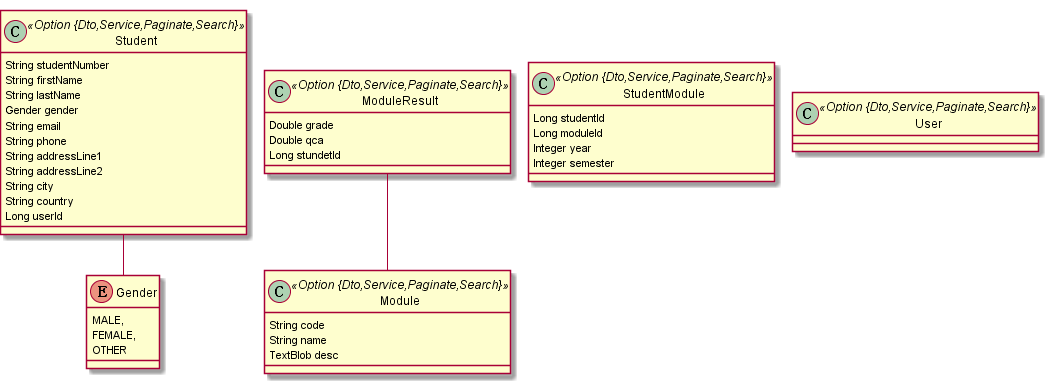
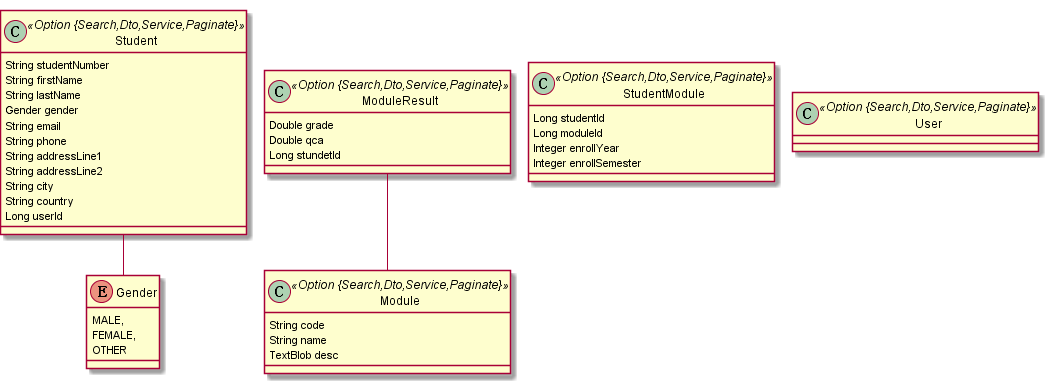
Initial application generated by JHipster-5.8.1

diff --git a/svcUnivCourseModule/src/test/java/cc/orangejuice/srs/univ/course/module/web/rest/StudentModuleResourceIntTest.java b/svcUnivCourseModule/src/test/java/cc/orangejuice/srs/univ/course/module/web/rest/StudentModuleResourceIntTest.java
@@ -57,11 +57,11 @@ public class StudentModuleResourceIntTest {
     private static final Long DEFAULT_MODULE_ID = 1L;
     private static final Long UPDATED_MODULE_ID = 2L;
 
-    private static final Integer DEFAULT_YEAR = 1;
-    private static final Integer UPDATED_YEAR = 2;
+    private static final Integer DEFAULT_ENROLL_YEAR = 1;
+    private static final Integer UPDATED_ENROLL_YEAR = 2;
 
-    private static final Integer DEFAULT_SEMESTER = 1;
-    private static final Integer UPDATED_SEMESTER = 2;
+    private static final Integer DEFAULT_ENROLL_SEMESTER = 1;
+    private static final Integer UPDATED_ENROLL_SEMESTER = 2;
 
     @Autowired
     private StudentModuleRepository studentModuleRepository;
@@ -121,8 +121,8 @@ public class StudentModuleResourceIntTest {
         StudentModule studentModule = new StudentModule()
             .studentId(DEFAULT_STUDENT_ID)
             .moduleId(DEFAULT_MODULE_ID)
-            .year(DEFAULT_YEAR)
-            .semester(DEFAULT_SEMESTER);
+            .enrollYear(DEFAULT_ENROLL_YEAR)
+            .enrollSemester(DEFAULT_ENROLL_SEMESTER);
         return studentModule;
     }
 
@@ -149,8 +149,8 @@ public class StudentModuleResourceIntTest {
         StudentModule testStudentModule = studentModuleList.get(studentModuleList.size() - 1);
         assertThat(testStudentModule.getStudentId()).isEqualTo(DEFAULT_STUDENT_ID);
         assertThat(testStudentModule.getModuleId()).isEqualTo(DEFAULT_MODULE_ID);
-        assertThat(testStudentModule.getYear()).isEqualTo(DEFAULT_YEAR);
-        assertThat(testStudentModule.getSemester()).isEqualTo(DEFAULT_SEMESTER);
+        assertThat(testStudentModule.getEnrollYear()).isEqualTo(DEFAULT_ENROLL_YEAR);
+        assertThat(testStudentModule.getEnrollSemester()).isEqualTo(DEFAULT_ENROLL_SEMESTER);
 
         // Validate the StudentModule in Elasticsearch
         verify(mockStudentModuleSearchRepository, times(1)).save(testStudentModule);
@@ -219,10 +219,10 @@ public class StudentModuleResourceIntTest {
 
     @Test
     @Transactional
-    public void checkYearIsRequired() throws Exception {
+    public void checkEnrollYearIsRequired() throws Exception {
         int databaseSizeBeforeTest = studentModuleRepository.findAll().size();
         // set the field null
-        studentModule.setYear(null);
+        studentModule.setEnrollYear(null);
 
         // Create the StudentModule, which fails.
         StudentModuleDTO studentModuleDTO = studentModuleMapper.toDto(studentModule);
@@ -238,10 +238,10 @@ public class StudentModuleResourceIntTest {
 
     @Test
     @Transactional
-    public void checkSemesterIsRequired() throws Exception {
+    public void checkEnrollSemesterIsRequired() throws Exception {
         int databaseSizeBeforeTest = studentModuleRepository.findAll().size();
         // set the field null
-        studentModule.setSemester(null);
+        studentModule.setEnrollSemester(null);
 
         // Create the StudentModule, which fails.
         StudentModuleDTO studentModuleDTO = studentModuleMapper.toDto(studentModule);
@@ -268,8 +268,8 @@ public class StudentModuleResourceIntTest {
             .andExpect(jsonPath("$.[*].id").value(hasItem(studentModule.getId().intValue())))
             .andExpect(jsonPath("$.[*].studentId").value(hasItem(DEFAULT_STUDENT_ID.intValue())))
             .andExpect(jsonPath("$.[*].moduleId").value(hasItem(DEFAULT_MODULE_ID.intValue())))
-            .andExpect(jsonPath("$.[*].year").value(hasItem(DEFAULT_YEAR)))
-            .andExpect(jsonPath("$.[*].semester").value(hasItem(DEFAULT_SEMESTER)));
+            .andExpect(jsonPath("$.[*].enrollYear").value(hasItem(DEFAULT_ENROLL_YEAR)))
+            .andExpect(jsonPath("$.[*].enrollSemester").value(hasItem(DEFAULT_ENROLL_SEMESTER)));
     }
     
     @Test
@@ -285,8 +285,8 @@ public class StudentModuleResourceIntTest {
             .andExpect(jsonPath("$.id").value(studentModule.getId().intValue()))
             .andExpect(jsonPath("$.studentId").value(DEFAULT_STUDENT_ID.intValue()))
             .andExpect(jsonPath("$.moduleId").value(DEFAULT_MODULE_ID.intValue()))
-            .andExpect(jsonPath("$.year").value(DEFAULT_YEAR))
-            .andExpect(jsonPath("$.semester").value(DEFAULT_SEMESTER));
+            .andExpect(jsonPath("$.enrollYear").value(DEFAULT_ENROLL_YEAR))
+            .andExpect(jsonPath("$.enrollSemester").value(DEFAULT_ENROLL_SEMESTER));
     }
 
     @Test
@@ -312,8 +312,8 @@ public class StudentModuleResourceIntTest {
         updatedStudentModule
             .studentId(UPDATED_STUDENT_ID)
             .moduleId(UPDATED_MODULE_ID)
-            .year(UPDATED_YEAR)
-            .semester(UPDATED_SEMESTER);
+            .enrollYear(UPDATED_ENROLL_YEAR)
+            .enrollSemester(UPDATED_ENROLL_SEMESTER);
         StudentModuleDTO studentModuleDTO = studentModuleMapper.toDto(updatedStudentModule);
 
         restStudentModuleMockMvc.perform(put("/api/student-modules")
@@ -327,8 +327,8 @@ public class StudentModuleResourceIntTest {
         StudentModule testStudentModule = studentModuleList.get(studentModuleList.size() - 1);
         assertThat(testStudentModule.getStudentId()).isEqualTo(UPDATED_STUDENT_ID);
         assertThat(testStudentModule.getModuleId()).isEqualTo(UPDATED_MODULE_ID);
-        assertThat(testStudentModule.getYear()).isEqualTo(UPDATED_YEAR);
-        assertThat(testStudentModule.getSemester()).isEqualTo(UPDATED_SEMESTER);
+        assertThat(testStudentModule.getEnrollYear()).isEqualTo(UPDATED_ENROLL_YEAR);
+        assertThat(testStudentModule.getEnrollSemester()).isEqualTo(UPDATED_ENROLL_SEMESTER);
 
         // Validate the StudentModule in Elasticsearch
         verify(mockStudentModuleSearchRepository, times(1)).save(testStudentModule);
@@ -391,8 +391,8 @@ public class StudentModuleResourceIntTest {
             .andExpect(jsonPath("$.[*].id").value(hasItem(studentModule.getId().intValue())))
             .andExpect(jsonPath("$.[*].studentId").value(hasItem(DEFAULT_STUDENT_ID.intValue())))
             .andExpect(jsonPath("$.[*].moduleId").value(hasItem(DEFAULT_MODULE_ID.intValue())))
-            .andExpect(jsonPath("$.[*].year").value(hasItem(DEFAULT_YEAR)))
-            .andExpect(jsonPath("$.[*].semester").value(hasItem(DEFAULT_SEMESTER)));
+            .andExpect(jsonPath("$.[*].enrollYear").value(hasItem(DEFAULT_ENROLL_YEAR)))
+            .andExpect(jsonPath("$.[*].enrollSemester").value(hasItem(DEFAULT_ENROLL_SEMESTER)));
     }
 
     @Test

diff --git a/svcUnivCourseModule/src/main/java/cc/orangejuice/srs/univ/course/module/domain/StudentModule.java b/svcUnivCourseModule/src/main/java/cc/orangejuice/srs/univ/course/module/domain/StudentModule.java
@@ -35,12 +35,12 @@ public class StudentModule implements Serializable {
     private Long moduleId;
 
     @NotNull
-    @Column(name = "jhi_year", nullable = false)
-    private Integer year;
+    @Column(name = "enroll_year", nullable = false)
+    private Integer enrollYear;
 
     @NotNull
-    @Column(name = "semester", nullable = false)
-    private Integer semester;
+    @Column(name = "enroll_semester", nullable = false)
+    private Integer enrollSemester;
 
     // jhipster-needle-entity-add-field - JHipster will add fields here, do not remove
     public Long getId() {
@@ -77,30 +77,30 @@ public class StudentModule implements Serializable {
         this.moduleId = moduleId;
     }
 
-    public Integer getYear() {
-        return year;
+    public Integer getEnrollYear() {
+        return enrollYear;
     }
 
-    public StudentModule year(Integer year) {
-        this.year = year;
+    public StudentModule enrollYear(Integer enrollYear) {
+        this.enrollYear = enrollYear;
         return this;
     }
 
-    public void setYear(Integer year) {
-        this.year = year;
+    public void setEnrollYear(Integer enrollYear) {
+        this.enrollYear = enrollYear;
     }
 
-    public Integer getSemester() {
-        return semester;
+    public Integer getEnrollSemester() {
+        return enrollSemester;
     }
 
-    public StudentModule semester(Integer semester) {
-        this.semester = semester;
+    public StudentModule enrollSemester(Integer enrollSemester) {
+        this.enrollSemester = enrollSemester;
         return this;
     }
 
-    public void setSemester(Integer semester) {
-        this.semester = semester;
+    public void setEnrollSemester(Integer enrollSemester) {
+        this.enrollSemester = enrollSemester;
     }
     // jhipster-needle-entity-add-getters-setters - JHipster will add getters and setters here, do not remove
 
@@ -130,8 +130,8 @@ public class StudentModule implements Serializable {
             "id=" + getId() +
             ", studentId=" + getStudentId() +
             ", moduleId=" + getModuleId() +
-            ", year=" + getYear() +
-            ", semester=" + getSemester() +
+            ", enrollYear=" + getEnrollYear() +
+            ", enrollSemester=" + getEnrollSemester() +
             "}";
     }
 }

diff --git a/svcUnivCourseModule/src/main/java/cc/orangejuice/srs/univ/course/module/service/dto/StudentModuleDTO.java b/svcUnivCourseModule/src/main/java/cc/orangejuice/srs/univ/course/module/service/dto/StudentModuleDTO.java
@@ -17,10 +17,10 @@ public class StudentModuleDTO implements Serializable {
     private Long moduleId;
 
     @NotNull
-    private Integer year;
+    private Integer enrollYear;
 
     @NotNull
-    private Integer semester;
+    private Integer enrollSemester;
 
 
     public Long getId() {
@@ -47,20 +47,20 @@ public class StudentModuleDTO implements Serializable {
         this.moduleId = moduleId;
     }
 
-    public Integer getYear() {
-        return year;
+    public Integer getEnrollYear() {
+        return enrollYear;
     }
 
-    public void setYear(Integer year) {
-        this.year = year;
+    public void setEnrollYear(Integer enrollYear) {
+        this.enrollYear = enrollYear;
     }
 
-    public Integer getSemester() {
-        return semester;
+    public Integer getEnrollSemester() {
+        return enrollSemester;
     }
 
-    public void setSemester(Integer semester) {
-        this.semester = semester;
+    public void setEnrollSemester(Integer enrollSemester) {
+        this.enrollSemester = enrollSemester;
     }
 
     @Override
@@ -90,8 +90,8 @@ public class StudentModuleDTO implements Serializable {
             "id=" + getId() +
             ", studentId=" + getStudentId() +
             ", moduleId=" + getModuleId() +
-            ", year=" + getYear() +
-            ", semester=" + getSemester() +
+            ", enrollYear=" + getEnrollYear() +
+            ", enrollSemester=" + getEnrollSemester() +
             "}";
     }
 }

diff --git a/svcUnivCourseModule/src/main/java/cc/orangejuice/srs/univ/course/module/client/StudentFeignClient.java b/svcUnivCourseModule/src/main/java/cc/orangejuice/srs/univ/course/module/client/StudentFeignClient.java
@@ -1,0 +1,8 @@
+// @AuthorizedFeignClient(name = "svcstudent")
+// public interface TeamClient {
+//    @RequestMapping(value = "/api/teams/", method = RequestMethod.GET)
+//    List<Team> findTeams();
+
+//    @RequestMapping(value = "/api/teams/{id}", method = RequestMethod.GET)
+//    Team findTeam(@PathVariable("id") Long id);
+// }

diff --git a/docker-compose/README-DOCKER-COMPOSE.md b/docker-compose/README-DOCKER-COMPOSE.md
@@ -16,9 +16,6 @@ Launch all your infrastructure by running: `docker-compose up -d`.
 - svcUnivCourseModule (microservice application)
 - svcUnivCourseModule's mysql database
 - svcUnivCourseModule's elasticsearch search engine
-- svcStudentResult (microservice application)
-- svcStudentResult's mysql database
-- svcStudentResult's elasticsearch search engine
 - cloudGateway (gateway application)
 - cloudGateway's mysql database
 - cloudAuth (uaa application)
